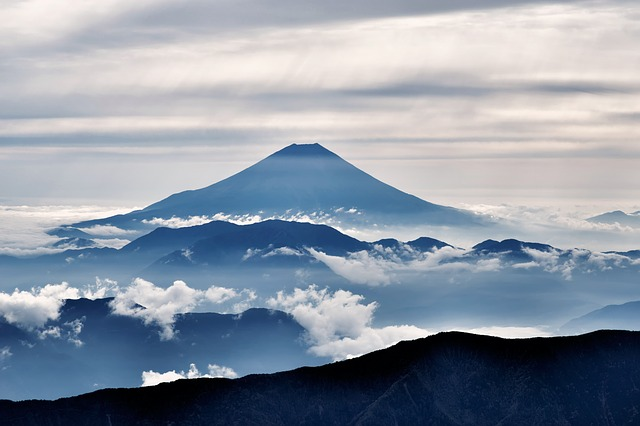
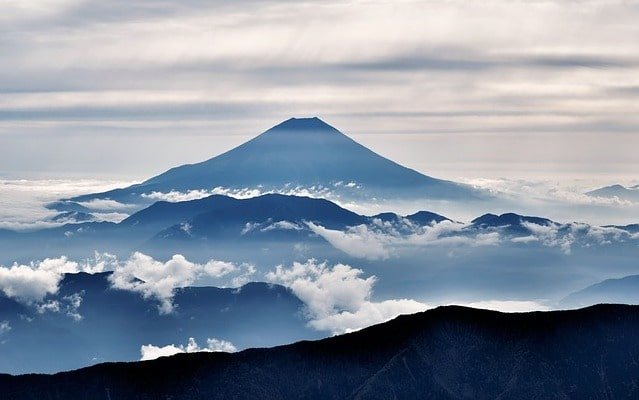
compress images

diff --git a/css/style.css b/css/style.css
@@ -186,7 +186,6 @@ header .wrapper {
     width: 50%;
     margin: 0 auto;
     color: white;
-    /* font-weight: bold; */
     font-size: 20px;
     text-shadow: 1px 1px #333;
 }
@@ -225,7 +224,6 @@ form {
     color: #000;
     outline: none;
     border: none;
-    width: 100%;
     box-sizing: border-box;
     margin: 10px;
     padding: 5px;
